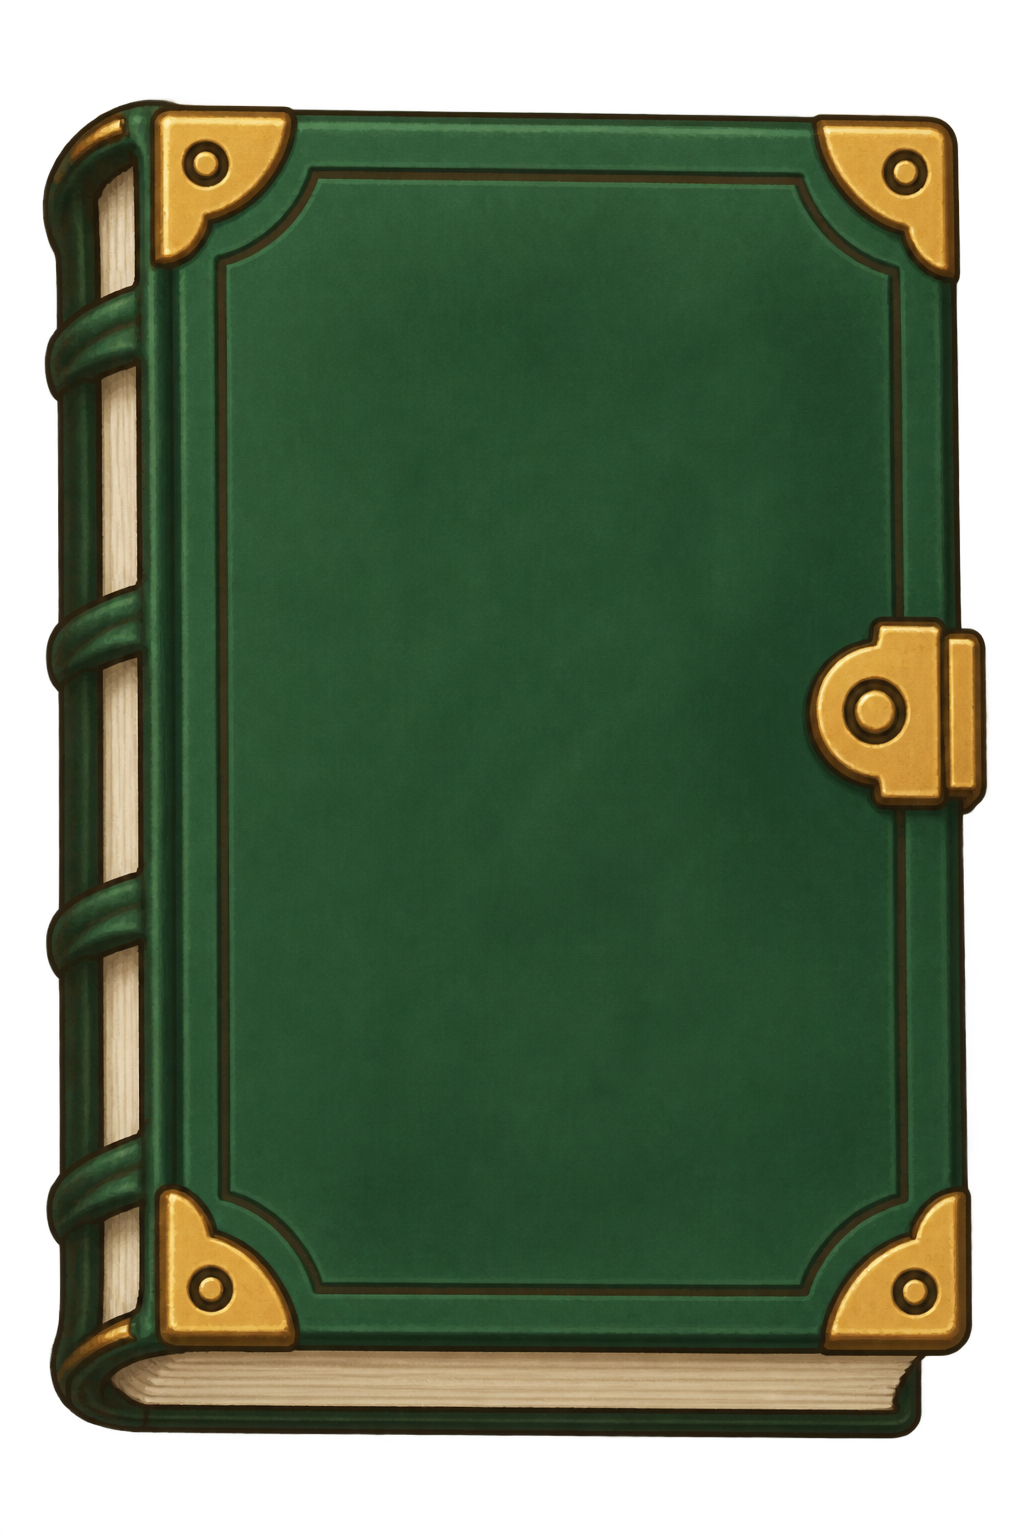
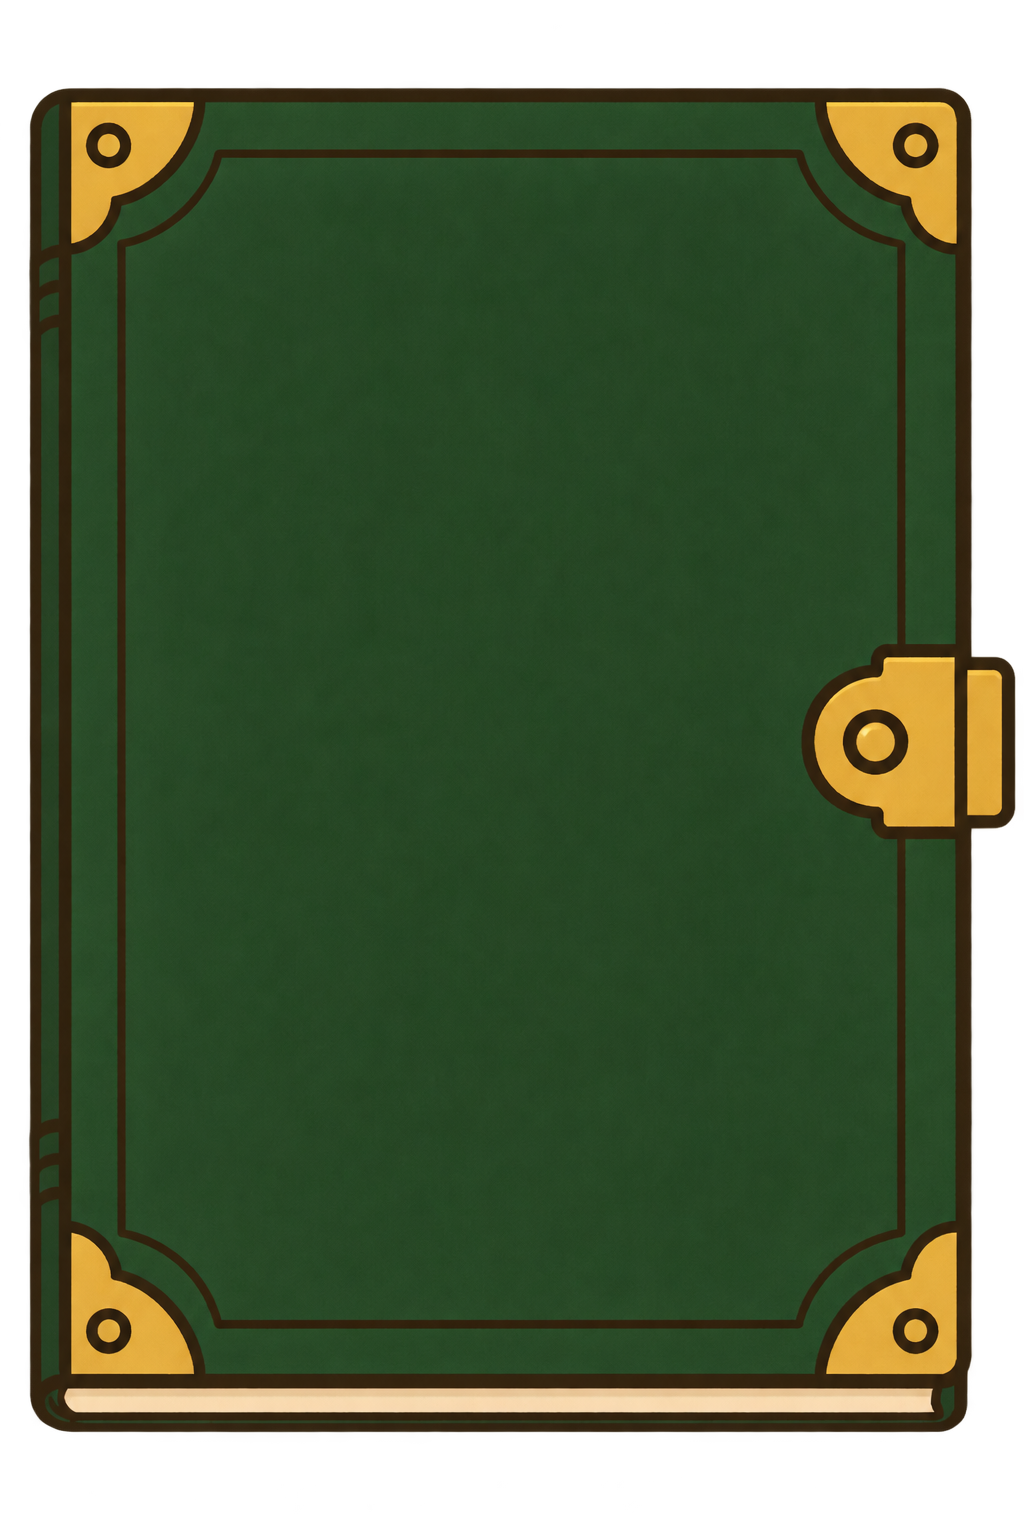
feat(frontend): a flatter book, and painted iron stops on the trail
Two new paintings, both transparent:

- The spellbook is redrawn as a flat elevation — a spine sliver and a page
  sliver, no three-quarter turn, no rim light. It reads as a book on the
  shelf, not a photographed prop.
- The trail's stops are now painted iron tokens: a riveted octagon with a
  recessed face, and a boss version with a doubled rim, brass thorns and an
  empty central medallion. CSS only adds the status light, so the art carries
  the construction.

The token has to be set with longhands and `!important`: a shorthand holding a
`var()` is dropped at computed-value time and the token never appears, and the
shared card rule sits later in the cascade than the trail's own.

Iron is the trail's default now.

Changed region(s): [[0.0312, 0.0312, 1.0, 0.9375]]

diff --git a/frontend/src/controls.css b/frontend/src/controls.css
@@ -2529,50 +2529,45 @@
 /* `coin` is the flat arcade stop the map shipped with. The two dies below
  * reuse the language of the badge discs so the trail and the wall agree. */
 
-/* iron: a riveted plate, its rim lit by how far the learner has got. */
+/* iron: the painted token — a riveted octagon with a recessed face — lit by
+ * how far the learner has got. The art carries the construction; CSS only
+ * adds the status light. */
 .personal-workspace .challenge-dsl-map--iron .challenge-dsl-card {
   border: 0;
-  background:
-    radial-gradient(circle at 50% 50%, #34304a 0 62%, transparent 62%),
-    #232030;
-  box-shadow: inset 0 0 0 3px #4b4560, 0 6px 0 #16141f;
+  border-radius: 0;
+  /* Longhands, not the shorthand: a shorthand holding a var() is dropped at
+   * computed-value time, and the token never appears. */
+  background-color: transparent !important;
+  background-image: var(--node-plate) !important;
+  background-position: center !important;
+  background-size: 100% 100% !important;
+  background-repeat: no-repeat !important;
+  box-shadow: none;
   color: #b9aee0;
 }
 
+.personal-workspace .challenge-dsl-map--iron .challenge-dsl-card.is-boss {
+  background-image: var(--node-boss) !important;
+}
+
 .personal-workspace .challenge-dsl-map--iron .challenge-dsl-card.is-completed {
-  background:
-    radial-gradient(circle at 50% 50%, #3b3218 0 62%, transparent 62%),
-    #232030;
-  box-shadow: inset 0 0 0 3px #ffd166, 0 6px 0 #16141f, 0 0 16px rgb(255 209 102 / 45%);
   color: #ffd166;
+  filter: drop-shadow(0 0 10px rgb(255 209 102 / 55%));
 }
 
 .personal-workspace .challenge-dsl-map--iron .challenge-dsl-card.is-in_progress,
 .personal-workspace .challenge-dsl-map--iron .challenge-dsl-card.is-unlocked {
-  background:
-    radial-gradient(circle at 50% 50%, #1d3a30 0 62%, transparent 62%),
-    #232030;
-  box-shadow: inset 0 0 0 3px #3ad183, 0 6px 0 #16141f, 0 0 16px rgb(58 209 131 / 40%);
   color: #7cf0c4;
+  filter: drop-shadow(0 0 10px rgb(58 209 131 / 50%));
 }
 
 .personal-workspace .challenge-dsl-map--iron .challenge-dsl-card.is-failed {
-  box-shadow: inset 0 0 0 3px #ff6f6f, 0 6px 0 #16141f;
   color: #ffb3ab;
+  filter: drop-shadow(0 0 10px rgb(255 111 111 / 45%));
 }
 
-/* Rivets, drawn as eight dots around the plate. */
-.personal-workspace .challenge-dsl-map--iron .challenge-dsl-card::before {
-  position: absolute;
-  inset: 6px;
-  border-radius: 50%;
-  background:
-    radial-gradient(circle 2.4px at 50% 3%, #9d93b8 98%, transparent 100%),
-    radial-gradient(circle 2.4px at 97% 50%, #9d93b8 98%, transparent 100%),
-    radial-gradient(circle 2.4px at 50% 97%, #9d93b8 98%, transparent 100%),
-    radial-gradient(circle 2.4px at 3% 50%, #9d93b8 98%, transparent 100%);
-  content: "";
-  pointer-events: none;
+.personal-workspace .challenge-dsl-map--iron .challenge-dsl-card.is-locked {
+  filter: saturate(0.5) brightness(0.82);
 }
 
 /* lantern: a lit paper orb; the light is the status. */

diff --git a/frontend/src/components/ChallengeDslMap.vue b/frontend/src/components/ChallengeDslMap.vue
@@ -10,9 +10,10 @@ import { computed, nextTick, onMounted, onUnmounted, ref, watch } from 'vue'
 import AppIcon from './AppIcon.vue'
 import CrumboMark from './CrumboMark.vue'
 import { parseChallengeMapDsl, spreadSpacing, type ChallengeMapNode } from '../utils/challenge-map'
+import { nodeToken } from '../assets/halloween'
 import { bump, drawPaths, gsap, motionAllowed, popIn } from '../composables/useMotion'
 
-const props = withDefaults(defineProps<{ dsl: string; variant?: 'coin' | 'iron' | 'lantern' }>(), { variant: 'lantern' })
+const props = withDefaults(defineProps<{ dsl: string; variant?: 'coin' | 'iron' | 'lantern' }>(), { variant: 'iron' })
 const emit = defineEmits<{ select: [id: string] }>()
 
 const NODE = 80
@@ -513,7 +514,12 @@ function cardClasses(node: ChallengeMapNode): Record<string, boolean> {
 </script>
 
 <template>
-  <section class="challenge-dsl-map panel" :class="`challenge-dsl-map--${variant}`" aria-label="闯关地图">
+  <section
+    class="challenge-dsl-map panel"
+    :class="`challenge-dsl-map--${variant}`"
+    :style="{ '--node-plate': `url(${nodeToken.plate})`, '--node-boss': `url(${nodeToken.boss})` }"
+    aria-label="闯关地图"
+  >
     <header class="challenge-dsl-map__head">
       <div>
         <p class="challenge-dsl-summary">

diff --git a/frontend/src/assets/halloween/index.ts b/frontend/src/assets/halloween/index.ts
@@ -156,3 +156,8 @@ export const parchmentFrame: Frame3Part = {
 /** A closed spellbook as an object: spine, page block and clasp, no backdrop. */
 import bookObjectDay from './card/book-object-day.png'
 export const bookObject = { day: bookObjectDay, night: bookObjectDay } as const
+
+/* The trail's stop markers: a riveted iron token, and the boss's version. */
+import nodePlate from './card/node-plate.png'
+import nodePlateBoss from './card/node-plate-boss.png'
+export const nodeToken = { plate: nodePlate, boss: nodePlateBoss } as const
